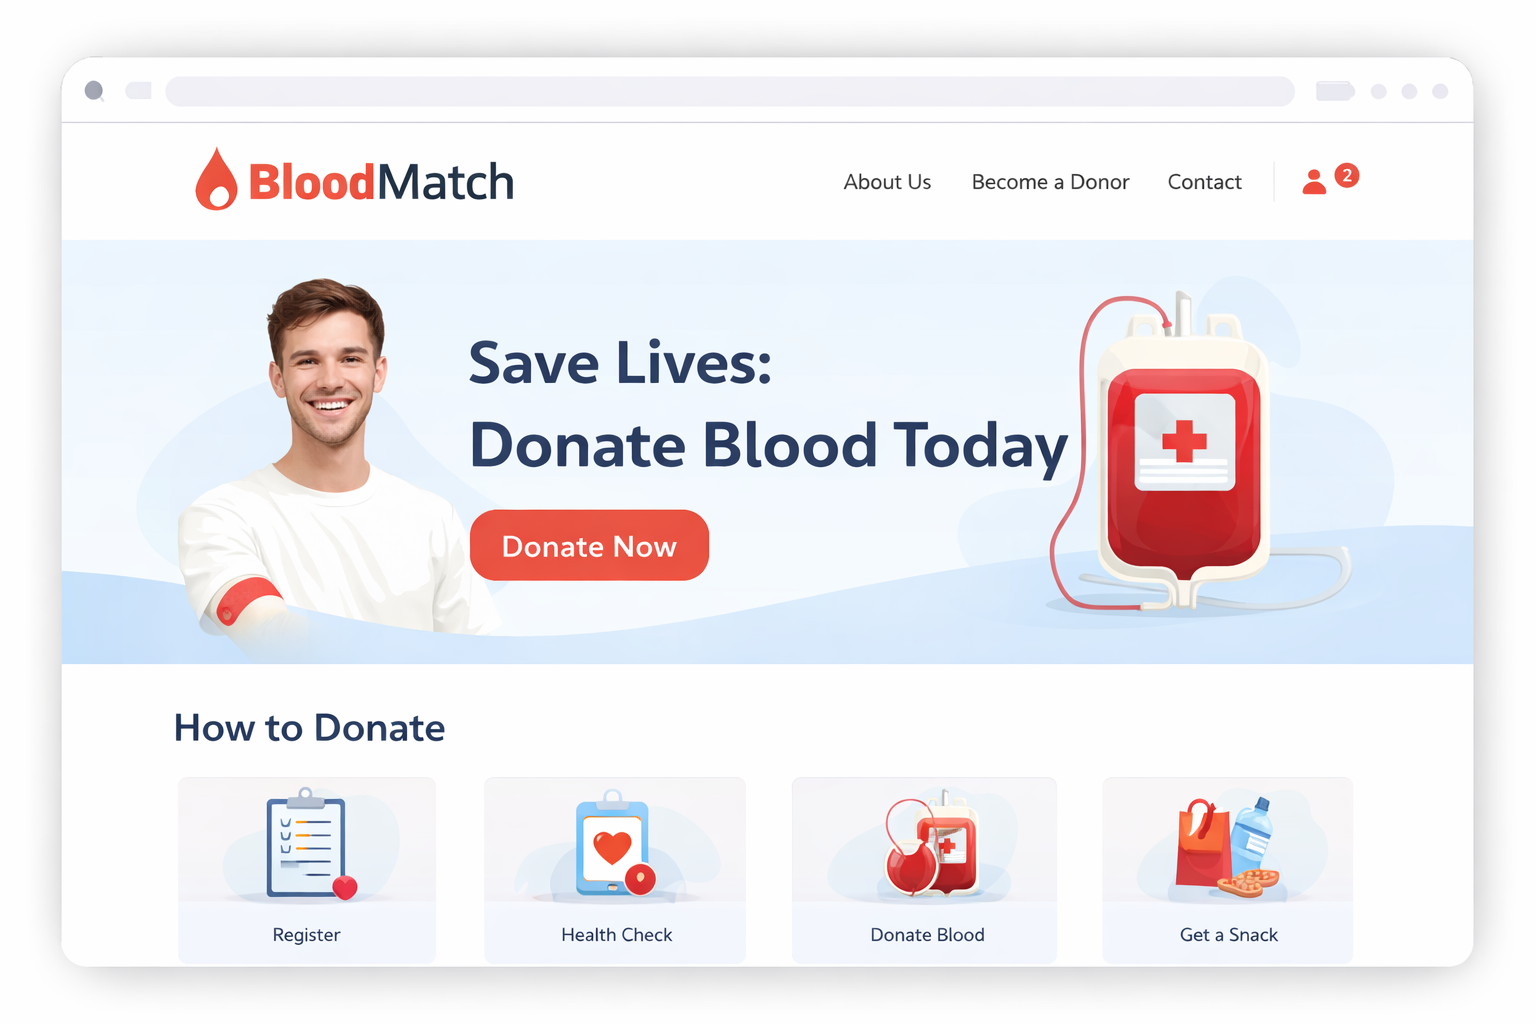
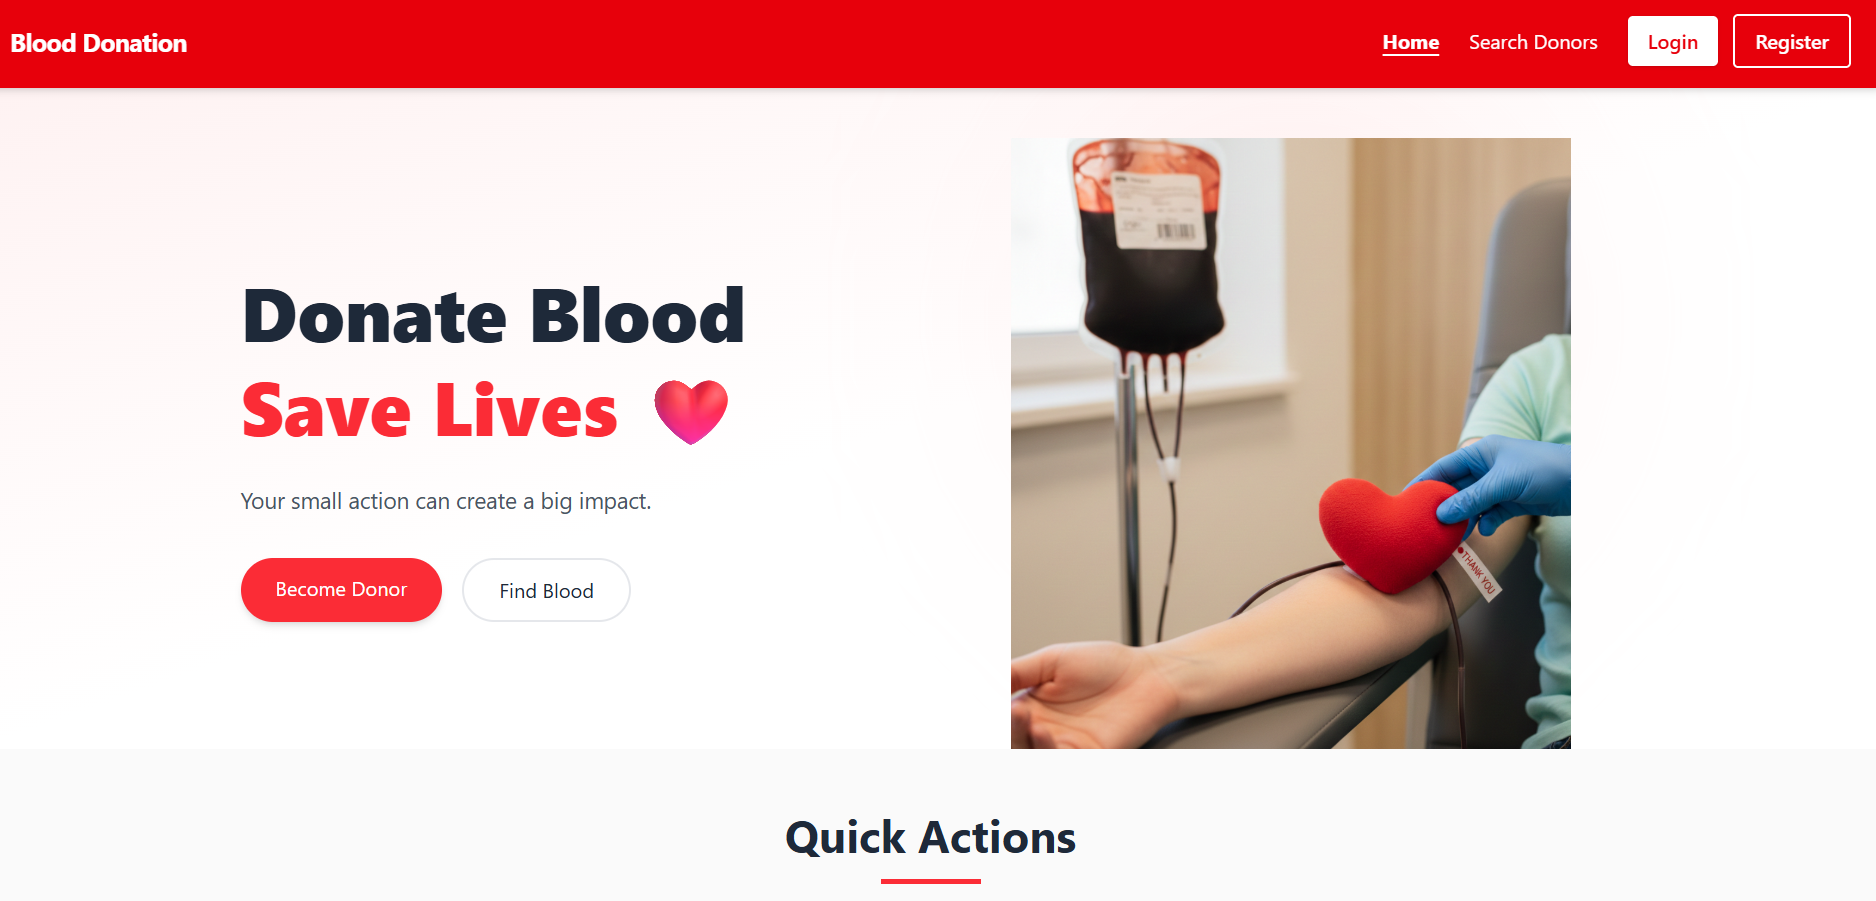
added one project

diff --git a/src/main/ContactMe.jsx b/src/main/ContactMe.jsx
@@ -46,12 +46,14 @@ const ContactMe = () => {
 
         {/* Send Email Button */}
         <a
-          href="mailto:abdurrahaman7042@gmail.com"
+          href="https://mail.google.com/mail/?view=cm&fs=1&to=abdurrahaman7042@gmail.com"
+          target="_blank"
+          rel="noopener noreferrer"
           className="inline-flex items-center gap-2 px-8 py-4 rounded-xl font-semibold
-                     bg-linear-to-r from-sky-400 via-purple-500 to-pink-400
-                     text-slate-900 text-lg
-                     hover:scale-105 hover:shadow-lg hover:shadow-pink-500/50
-                     transition transform duration-300"
+             bg-gradient-to-r from-sky-400 via-purple-500 to-pink-400
+             text-slate-900 text-lg
+             hover:scale-105 hover:shadow-lg hover:shadow-pink-500/50
+             transition transform duration-300"
         >
           📧 Send Email
         </a>

diff --git a/src/main/FeaturedProjects.jsx b/src/main/FeaturedProjects.jsx
@@ -4,13 +4,13 @@ import { FaExternalLinkAlt, FaGithub } from "react-icons/fa";
 const FeaturedProjects = () => {
   const projects = [
     {
-      title: "Portfolio Website",
+      title: "Food Delivery Website",
       description:
-        "A personal portfolio website built with React, Tailwind CSS, and animations.",
-      tech: ["React", "Tailwind CSS", "JavaScript"],
-      liveLink: "https://ar-sojeb.vercel.app",
-      githubLink: "https://github.com/arsojeb/portfolio-up.git",
-      image: "/Screenshot 2026-02-07 015508.png",
+        "A Frontend of Food Delivery website built with React, Tailwind CSS, and animations.",
+      tech: ["React", "Tailwind CSS", "JavaScript", "HTML"],
+      liveLink: "https://flavor-haven-frontend.vercel.app/",
+      githubLink: "https://github.com/arsojeb/Flavor-Haven-Frontend.git",
+      image: "/testora.png",
     },
     {
       title: "E-commerce App",

diff --git a/src/main/GroupProject.jsx b/src/main/GroupProject.jsx
@@ -157,4 +157,4 @@ const GroupProject = () => {
   );
 };
 
-export default GroupProject;
+export default GroupProject;``
